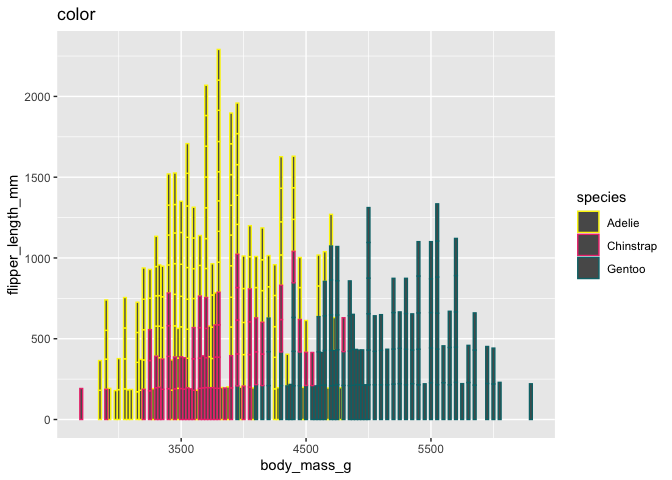
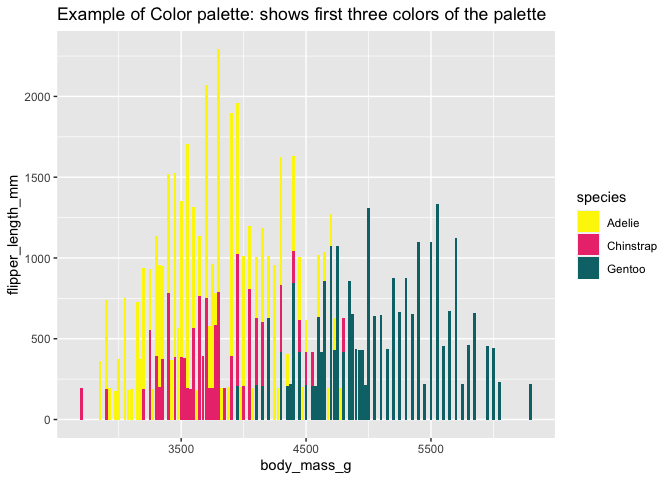
readme.md and readme.rmd final

diff --git a/README.md b/README.md
@@ -1,16 +1,42 @@
 
 <!-- README.md is generated from README.Rmd. Please edit that file -->
 
-# packageName
+# packageName- pigment
 
 <!-- badges: start -->
 <!-- badges: end -->
 
-The goal of packageName is to …
+Pigment is a substance, which leaves a stain/color when mixed. The goal
+of **pigment** is to provide access to some regular day to day colors.
+The package pigment has one palette- **stain** which includes colors
+like yellow, shades of brown like skin, wood and tan, along with 2
+different colors like teal and dark pink.
 
 ## Installation
 
-You can install the development version of packageName with …
+The development version of *pigment* with palette *stain* can be
+installed in the following way. The result is a set to return
+corresponding hexcode of the colour name to the ggplot. Configuration
+can be confirmed by using seecol(“colossal\_colours”, col\_bg =
+“grey90”, col\_brd = “black”) command.
+
+GitHub\_repo\_url(“<https://github.com/etc5523-2021/r-package-takehome-ratulwadhwa.git>”)
+
+**steps to install pigment package:**
+
+-   install.packages(“devtools”)
+
+-   library(devtools)
+
+-   dev\_mode(on=T)
+
+-   install\_github(“etc5523-2021/r-package-takehome-ratulwadhwa”)
+
+-   when finished do: dev\_mode(on=F)
+
+-   Use install.packages(“pigment”) command to install the package.
+
+-   load library- library(pigment)
 
 ``` r
 install.packages("devtools")
@@ -29,22 +55,23 @@ library(pigment)
 ``` r
 library(pigment)
 library(tidyverse)
-#> ── Attaching packages ─────────────────────────────────────── tidyverse 1.3.1 ──
-#> ✓ ggplot2 3.3.5     ✓ purrr   0.3.4
-#> ✓ tibble  3.1.5     ✓ dplyr   1.0.7
-#> ✓ tidyr   1.1.4     ✓ stringr 1.4.0
-#> ✓ readr   2.0.2     ✓ forcats 0.5.1
-#> ── Conflicts ────────────────────────────────────────── tidyverse_conflicts() ──
-#> x dplyr::filter() masks stats::filter()
-#> x dplyr::lag()    masks stats::lag()
 library(ggplot2)
 library(palmerpenguins)
 
-ggplot(penguins, aes(body_mass_g, flipper_length_mm, color = species)) +
+ggplot(penguins, aes(body_mass_g, flipper_length_mm, fill = species)) +
   geom_col() +
-pigment::scale_color_stain_d()+
-  labs(title = "color")
-#> Warning: Removed 2 rows containing missing values (position_stack).
+pigment::scale_fill_stain_d()+
+  labs(title = "Example of Color palette: shows first three colors of the palette")
 ```
 
 <img src="man/figures/README-unnamed-chunk-2-1.png" width="100%" />
+
+``` r
+ggplot(penguins, aes(bill_length_mm, bill_depth_mm, colour = body_mass_g)) +
+  geom_point() +
+   theme_bw()+
+pigment::scale_colour_stain_seq_c("wood")+
+  labs(title = "Example of Continuous Color: wood")
+```
+
+<img src="man/figures/README-unnamed-chunk-3-1.png" width="100%" />
